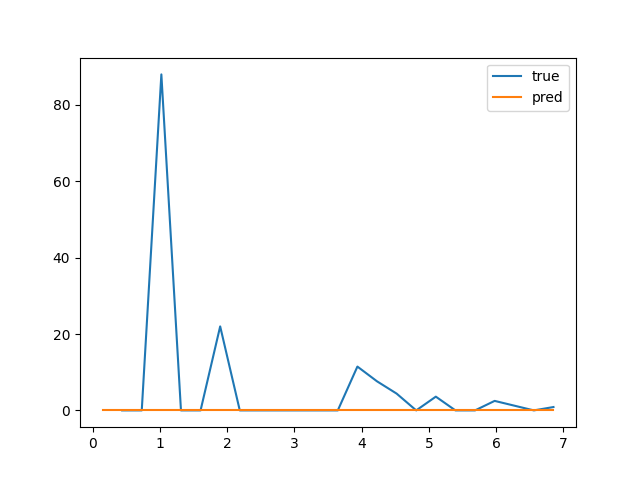
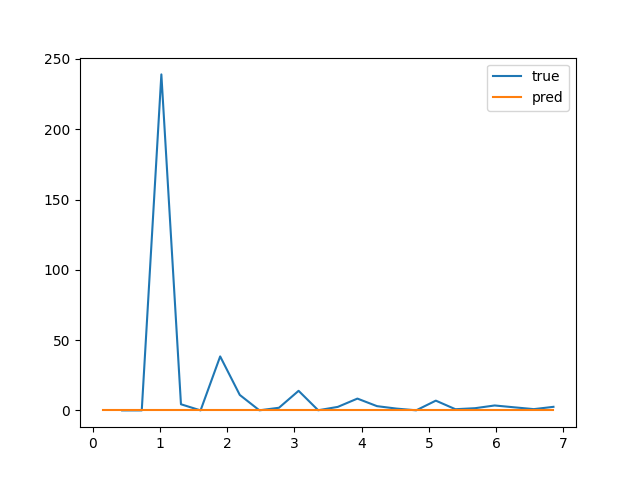
ap done, new train function

diff --git a/scripts/trackpy_accuracy.py b/scripts/trackpy_accuracy.py
@@ -20,9 +20,6 @@ def run_trackpy(array, diameter=11):
 
 def gr(positions, cutoff, bins, minimum_gas_number=1):
 	# from yushi yang
-
-
-
 	bins = np.linspace(0, cutoff, bins)
 	drs = bins[1:] - bins[:-1]
 	distances = pdist(positions).ravel()
@@ -41,7 +38,7 @@ def gr(positions, cutoff, bins, minimum_gas_number=1):
 
 	hist = np.histogram(distances, bins=bins)[0]
 
-	print(hist, rg_hist)
+	# print(hist, rg_hist)
 
 	rg_hist[rg_hist==0] = 0.001
 
@@ -50,24 +47,18 @@ def gr(positions, cutoff, bins, minimum_gas_number=1):
 	bin_centres = (bins[1:] + bins[:-1]) / 2
 	return bin_centres, hist # as x, y
 
-if __name__ == '__main__':
-	# reader = explore_lif.Reader('Data/i-ii.lif')
-	# series = reader.getSeries()
-	# chosen = series[5]  # choose first image in the lif file
-	# # get a numpy array corresponding to the 1st time point & 1st channel
-	# # the shape is (x, y, z)
-	# video = [chosen.getXYZ(T=t, channel=0) for t in range(chosen.getNbFrames())]
-	# video = np.array(video)
-	# print(video.shape)
-	# t, x, y, z
 
-	# dataset_path = '/home/ak18001/Data/HDD/Colloids'
-	dataset_path = '/home/wahab/Data/HDD/Colloids'
+
+
+
+if __name__ == '__main__':
+	dataset_path = '/home/ak18001/Data/HDD/Colloids'
+	# dataset_path = '/home/wahab/Data/HDD/Colloids'
 	# dataset_path = '/mnt/storage/home/ak18001/scratch/Colloids'
 	dc = DeepColloid(dataset_path)
 	dataset_name = 'new_year'
 
-	canvas, metadata, gt_positions = dc.read_hdf5(dataset_name, 3002, read_metadata=True)
+	canvas, metadata, gt_positions = dc.read_hdf5(dataset_name, 3007, read_metadata=True)
 	print(metadata)
 	diameters = [metadata['params']['r']*2 for i in range(len(gt_positions))]
 
@@ -82,22 +73,15 @@ if __name__ == '__main__':
 	x, y = gr(tp_predictions, 7, 25)
 	plt.plot(x, y, label='pred')
 	plt.legend()
-	plt.show()
+	# plt.show()
+	plt.savefig('output/gr.png')
 
-	# precisions, recalls, thresholds, predictions = dc.average_precision(gt_positions, tp_predictions, diameters=diameters)
-	# print(precisions, recalls)
+	plt.clf()
 
-	# # display = metrics.PrecisionRecallDisplay.from_predictions(true, predictions) #(precision=precisions, recall=recalls, estimator_name='unet').plot()
-	# display = metrics.PrecisionRecallDisplay(precision=np.flip(precisions), recall=recalls, estimator_name='trackpy').plot()
-	# plt.xlim([-0.1,1.1])
-	# plt.ylim([-0.1,1.1])
-	# # plot_precision_recall_curve(true, predictions)
-	# plt.savefig('output/roc_trackpy.png')
-
-
-
+	ap, precisions, recalls, thresholds = dc.average_precision(gt_positions, tp_predictions, diameters=diameters)
+	fig = dc.plot_pr(ap, precisions=precisions, recalls=recalls, thresholds=thresholds, name='Trackpy')
+	plt.savefig('output/roc_trackpy.png')
 	
-
 
 	# device = torch.device("cuda" if torch.cuda.is_available() else "cpu")
 	# print(f'predict on {device}')
@@ -114,29 +98,11 @@ if __name__ == '__main__':
 	# roiSize = (32,128,128)
 	# threshold = 0.5
 	# weights_path =  'output/weights/unet.pt'
-	
 
 	# canvas, gt_positions = dc.read_hdf5(dataset_name, 202, return_positions=True)
 	# label, tp_predictions = predict(canvas, model, device, weights_path, threshold=threshold, return_positions=True)
 	# print(gt_positions.shape, tp_predictions.shape)
-	# ap, precisions, recalls = dc.average_precision(gt_positions, tp_predictions, diameter=9)
-	# recalls = np.array([1-r for r in recalls])
-	# print(ap, precisions, recalls)
-
-	# display = metrics.PrecisionRecallDisplay(precision=precisions, recall=recalls, estimator_name='unet').plot()
-	# fig = display.figure_
-
-	# precisions = np.array([1-p for p in precisions])
-	# fig = plt.figure()
-	# ax = plt.gca()
-	# thresholds = np.linspace(0.05,0.95,10)
-	# ax = plot_pr_curve(precisions, recalls, category='unet')
-	# plt.savefig('output/roc_unet.png')
-
-	# print(aps)
-	# print(np.mean(aps))
-	# plt.show()
-	# fig = plot_pr_curve(precisions, recalls)
+	
 
 
 

diff --git a/colloidoscope/deepcolloid.py b/colloidoscope/deepcolloid.py
@@ -48,6 +48,8 @@ class DeepColloid:
 
 	def read_metadata(self, dataset: str, n: int) -> dict:
 
+
+
 		json_path = f'{self.dataset_path}/{dataset}.json'
 		with open(json_path, "r+") as f:
 			json_data = json.load(f)
@@ -56,8 +58,12 @@ class DeepColloid:
 		path = f'{self.dataset_path}/{dataset}.hdf5'
 		with h5py.File(path, "r") as f:
 			positions = np.array(f[str(n)+'_positions'])
+			try:
+				diameters = np.array(f[str(n)+'_diameters'])
+			except:
+				diameters = [metadata['params']['r']*2 for i in range(len(positions))]
 
-		return metadata, positions
+		return metadata, positions, diameters
 	
 	def write_hdf5(self, dataset:str, n:int, canvas:np.ndarray,  metadata:dict, positions:np.ndarray, diameters=None, dtype:str='uint8') -> np.ndarray:
 		path = f'{self.dataset_path}/{dataset}.hdf5'
@@ -261,6 +267,10 @@ class DeepColloid:
 		return precision, recall, predictions
 
 	def average_precision(self, ground_truth, prediction, diameters):
+
+		# based on https://gist.github.com/tarlen5/008809c3decf19313de216b9208f3734
+
+
 		print('Calculating average precision, threshold:')
 
 		precisions = []
@@ -272,27 +282,26 @@ class DeepColloid:
 			prec, rec, pred = self.get_precision_recall(ground_truth, prediction, diameters, thresh,)
 			precisions.append(prec)
 			recalls.append(rec)
-			predictions.append(pred)
+			predictions.append(pred) # predictions are here for testing sklearn.metrics from_estimator
 		print('Done')
 
 		precisions = np.array(precisions)
 		recalls = np.array(recalls)
+		recalls = np.flip(recalls) # why do i need to flip ????
 
-		middleIndex = int((len(precisions) + 1)/2)
+		ap = np.trapz(precisions, x=recalls) # integrate
 
-		# TODO integrate to find ap
+		return ap, precisions, recalls, thresholds
 
-		# prec_at_rec = []
-		# for recall_level in np.linspace(0.0, 1.0, 11):
-		# 	try:
-		# 		args = np.argwhere(recalls >= recall_level).flatten()
-		# 		prec = max(precisions[args])
-		# 	except ValueError:
-		# 		prec = 0.0
-		# 	prec_at_rec.append(prec)
-		# average_precision = np.mean(prec_at_rec)
+	def plot_pr(self, ap, precisions, recalls, thresholds, name):
+		# display = metrics.PrecisionRecallDisplay(precision=precisions, 
+		# 								recall=recalls, estimator_name=name).plot()
 
-		return precisions, recalls, thresholds, predictions[0]
+		plt.plot(recalls, precisions, 'bo-')
+		plt.title(f'{name}. Average precision = {ap}')
+		plt.xlim([-0.1,1.1])
+		plt.ylim([-0.1,1.1])
+		return plt.gcf()
 
 	def crop3d(self, array, roiSize, center=None):
 		roiZ, roiY, roiX = roiSize

diff --git a/colloidoscope/trainer.py b/colloidoscope/trainer.py
@@ -305,11 +305,12 @@ def test(model, dataset_path, dataset_name, test_set, threshold=0.5, num_workers
 	test_loader = torch.utils.data.DataLoader(test_ds, batch_size=batch_size, shuffle=False, num_workers=num_workers, pin_memory=torch.cuda.is_available())
 
 	losses = []
+	first = True # save figs for first instance
 	model.eval()
 	with torch.no_grad():
 		for idx, data in enumerate(test_loader):
 			i = test_set[idx]
-			metadata, true_positions = dc.read_metadata(dataset_name, i)
+			metadata, true_positions, diameters = dc.read_metadata(dataset_name, i)
 
 			x, y = data
 			x, y = x.to(device), y.to(device)
@@ -324,6 +325,10 @@ def test(model, dataset_path, dataset_name, test_set, threshold=0.5, num_workers
 			result = out_sigmoid.cpu().numpy()  # send to cpu and transform to numpy.ndarray
 			result = np.squeeze(result)  # remove batch dim and channel dim -> [H, W]
 
+			pred_positions = find_positions(result, threshold)
+			ap, precisions, recalls, thresholds = dc.average_precision(true_positions, pred_positions, diameters=diameters)
+
+
 			m = {
 				'dataset': metadata['dataset'],
 				'n' 	 : metadata['n'],
@@ -332,11 +337,25 @@ def test(model, dataset_path, dataset_name, test_set, threshold=0.5, num_workers
 				'n_particles':  metadata['n_particles'],
 				**metadata['params'],
 				'loss'	 : float(loss),
+				'AP'	 : float(ap),
 			}
+
+			if first and run != None:
+				x, y = dc.get_gr(true_positions, 7, 25, minimum_gas_number=1)
+				plt.plot(x, y, label='true')
+				x, y = dc.get_gr(pred_positions, 7, 25, minimum_gas_number=1)
+				plt.plot(x, y, label='pred')
+				plt.legend()
+				fig = plt.gcf()
+				run['gr'].upload(fig)
+				plt.clf()
+
+				fig = dc.plot_pr(ap, precisions, recalls, thresholds, name='Unet')
+
+
 
 			losses.append(m)
 			
-			positions = find_positions(result, threshold)
 
 	if run:
 		run['test/losses'] = losses

diff --git a/scripts/test.py b/scripts/test.py
@@ -7,6 +7,16 @@ if __name__ == '__main__':
     
     array = dc.read_tif('Real/Levke/goodData_2021_4_1Levke_smallParticles_betterData_2021_4_1/Levke_smallParticlesL1S_31_dense_1_4_21_Series006.tif')
 
+    # reader = explore_lif.Reader('Data/i-ii.lif')
+	# series = reader.getSeries()
+	# chosen = series[5]  # choose first image in the lif file
+	# # get a numpy array corresponding to the 1st time point & 1st channel
+	# # the shape is (x, y, z)
+	# video = [chosen.getXYZ(T=t, channel=0) for t in range(chosen.getNbFrames())]
+	# video = np.array(video)
+	# print(video.shape)
+	# t, x, y, z
+
     print(array.shape)
 
     dc.view(array)

diff --git a/setup.py b/setup.py
@@ -16,6 +16,7 @@ setup(
                 'pathlib2',
                 'trackpy',
                 'numba',
+                'pandas',
                 'matplotlib',
                 'h5py',
                 'napari',
